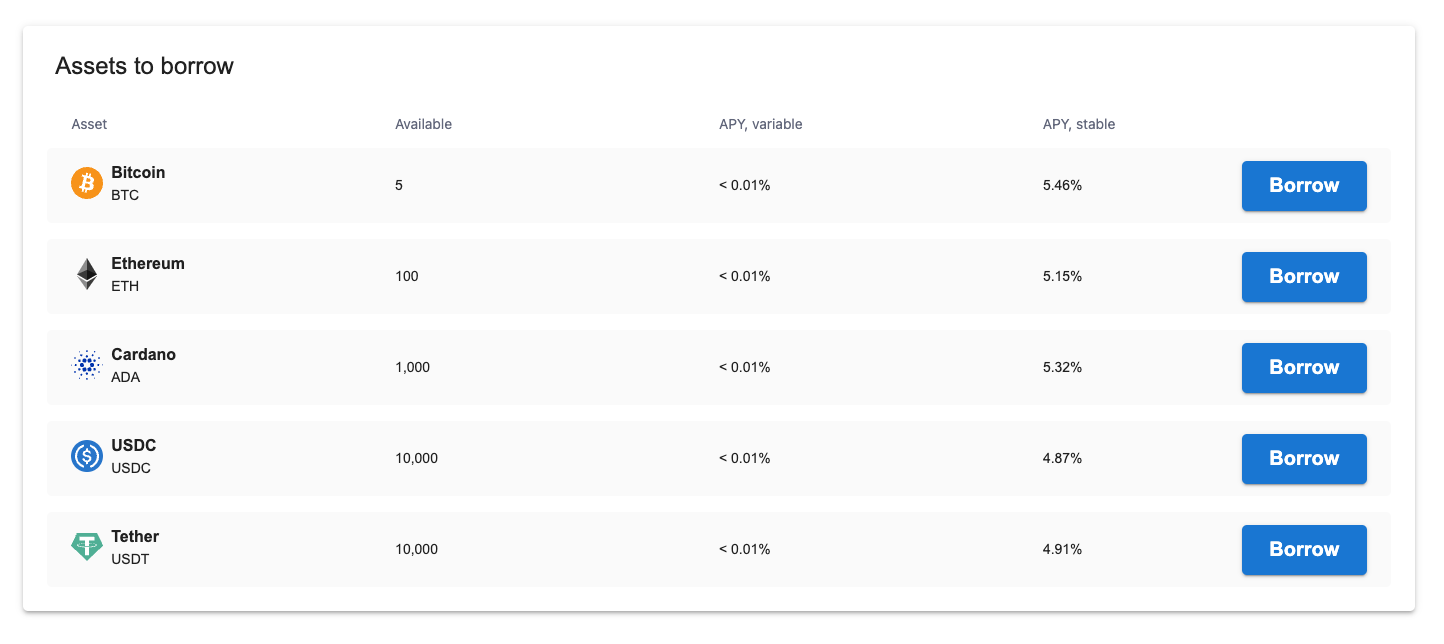
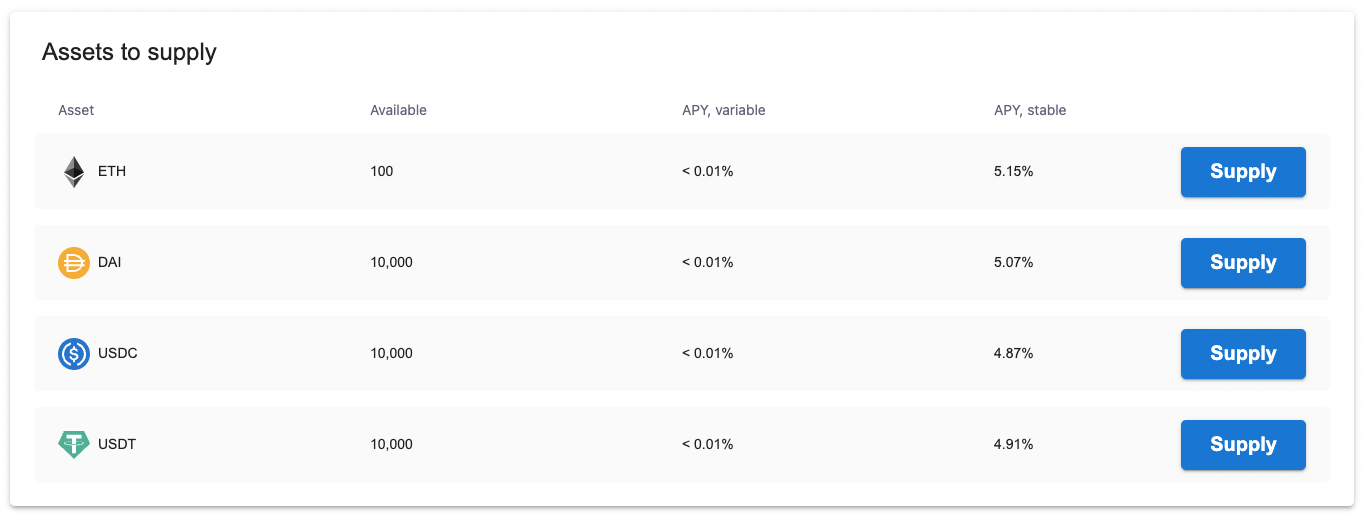
changed to supply

diff --git a/components/Assets/CryptoAssets.tsx b/components/Assets/CryptoAssets.tsx
@@ -1,11 +1,11 @@
 import { Box, Typography, Grid, Button } from '@mui/material';
 import Image from 'next/image';
-import ADA from '../../images/assets/ADA.svg';
-import BTC from '../../images/assets/BTC.svg';
 import ETH from '../../images/assets/ETH.svg';
+import DAI from '../../images/assets/DAI.svg';
 import USDC from '../../images/assets/USDC.svg';
 import USDT from '../../images/assets/USDT.svg';
 import CallMissedOutgoingIcon from '@mui/icons-material/CallMissedOutgoing';
+import { SupplyModal } from './SupplyModal';
 
 export interface CryptoAssetProps {
   name: string;
@@ -23,12 +23,11 @@ export const CryptoAsset: React.FC<CryptoAssetProps> = ({ name, symbol, availabl
       <Box sx={{ pl: 3, pr: 3 }}>
         {isSm ? (
           <>
-            <Grid container>
+            <Grid container alignItems="center" justifyContent="center">
               <Grid item xs={6}>
                 <Box sx={{ display: 'flex', flexDirection: 'row', alignItems: 'center' }}>
-                  {symbol === 'ADA' && <Image src={ADA} alt="ADA" />}
-                  {symbol === 'BTC' && <Image src={BTC} alt="BTC" />}
                   {symbol === 'ETH' && <Image src={ETH} alt="ETH" />}
+                  {symbol === 'DAI' && <Image src={DAI} alt="DAI" />}
                   {symbol === 'USDC' && <Image src={USDC} alt="USDC" />}
                   {symbol === 'USDT' && <Image src={USDT} alt="USDT" />}
                   {!isSm && (
@@ -54,18 +53,14 @@ export const CryptoAsset: React.FC<CryptoAssetProps> = ({ name, symbol, availabl
           </>
         ) : isMd ? (
           <>
-            <Grid container>
+            <Grid container alignItems="center" justifyContent="center">
               <Grid item xs={6}>
                 <Box sx={{ display: 'flex', flexDirection: 'row', alignItems: 'center' }}>
-                  {symbol === 'ADA' && <Image src={ADA} alt="ADA" />}
-                  {symbol === 'BTC' && <Image src={BTC} alt="BTC" />}
                   {symbol === 'ETH' && <Image src={ETH} alt="ETH" />}
+                  {symbol === 'DAI' && <Image src={DAI} alt="DAI" />}
                   {symbol === 'USDC' && <Image src={USDC} alt="USDC" />}
                   {symbol === 'USDT' && <Image src={USDT} alt="USDT" />}
                   <Box sx={{ ml: 1, display: 'flex', flexDirection: 'column' }}>
-                    <Typography variant="body1" fontWeight={700}>
-                      {name}
-                    </Typography>
                     <Typography variant="body2">{symbol}</Typography>
                   </Box>
                 </Box>
@@ -83,18 +78,14 @@ export const CryptoAsset: React.FC<CryptoAssetProps> = ({ name, symbol, availabl
           </>
         ) : (
           <>
-            <Grid container>
+            <Grid container alignItems="center" justifyContent="center">
               <Grid item xs={3}>
                 <Box sx={{ display: 'flex', flexDirection: 'row', alignItems: 'center' }}>
-                  {symbol === 'ADA' && <Image src={ADA} alt="ADA" />}
-                  {symbol === 'BTC' && <Image src={BTC} alt="BTC" />}
                   {symbol === 'ETH' && <Image src={ETH} alt="ETH" />}
+                  {symbol === 'DAI' && <Image src={DAI} alt="DAI" />}
                   {symbol === 'USDC' && <Image src={USDC} alt="USDC" />}
                   {symbol === 'USDT' && <Image src={USDT} alt="USDT" />}
                   <Box sx={{ ml: 1, display: 'flex', flexDirection: 'column' }}>
-                    <Typography variant="body1" fontWeight={700}>
-                      {name}
-                    </Typography>
                     <Typography variant="body2">{symbol}</Typography>
                   </Box>
                 </Box>
@@ -114,9 +105,7 @@ export const CryptoAsset: React.FC<CryptoAssetProps> = ({ name, symbol, availabl
               <Grid item xs={3}>
                 <Box sx={{ display: 'flex', alignItems: 'center', height: '100%', justifyContent: 'space-between' }}>
                   <Typography variant="body2">{apyS}</Typography>
-                  <Button type="button" fullWidth variant="contained" sx={{ height: '50px', width: '125px', borderRadius: '5px', ml: 1 }}>
-                    Borrow
-                  </Button>
+                  <SupplyModal symbol={symbol} />
                 </Box>
               </Grid>
             </Grid>

diff --git a/components/Assets/SupplyModal.tsx b/components/Assets/SupplyModal.tsx
@@ -1,0 +1,75 @@
+import * as React from 'react';
+import Box from '@mui/material/Box';
+import Button from '@mui/material/Button';
+import Typography from '@mui/material/Typography';
+import Modal from '@mui/material/Modal';
+import { TextField } from '@mui/material';
+import Image from 'next/image';
+import ETH from '../../images/assets/ETH.svg';
+import DAI from '../../images/assets/DAI.svg';
+import USDC from '../../images/assets/USDC.svg';
+import USDT from '../../images/assets/USDT.svg';
+
+const style = {
+  position: 'absolute' as 'absolute',
+  top: '50%',
+  left: '50%',
+  transform: 'translate(-50%, -50%)',
+  width: 400,
+  bgcolor: 'background.paper',
+  border: '1px solid #000',
+  borderRadius: '5px',
+  boxShadow: 24,
+  p: 4,
+};
+
+export interface SupplyModalProps {
+  symbol: string;
+}
+
+export const SupplyModal: React.FC<SupplyModalProps> = ({ symbol }: SupplyModalProps) => {
+  const [open, setOpen] = React.useState(false);
+  const handleOpen = () => setOpen(true);
+  const handleClose = () => setOpen(false);
+
+  return (
+    <div>
+      <Button type="button" fullWidth variant="contained" sx={{ height: '50px', width: '125px', borderRadius: '5px', ml: 1 }} onClick={handleOpen}>
+        Supply
+      </Button>
+      <Modal open={open} onClose={handleClose} aria-labelledby="modal-modal-title" aria-describedby="modal-modal-description">
+        <Box sx={style}>
+          <Typography id="modal-modal-title" variant="h5" component="h2">
+            Supply {symbol}
+          </Typography>
+          <Typography id="modal-modal-description" variant="body1" sx={{ mt: 7 }}>
+            Enter an Amount
+          </Typography>
+          <TextField
+            id="outlined-basic"
+            fullWidth
+            label="Amount"
+            variant="outlined"
+            sx={{ mt: 2 }}
+            InputProps={{
+              endAdornment: (
+                <Box sx={{ display: 'flex', flexDirection: 'row', alignItems: 'center' }}>
+                  {symbol === 'ETH' && <Image src={ETH} alt="ETH" />}
+                  {symbol === 'DAI' && <Image src={DAI} alt="DAI" />}
+                  {symbol === 'USDC' && <Image src={USDC} alt="USDC" />}
+                  {symbol === 'USDT' && <Image src={USDT} alt="USDT" />}
+                  <Typography variant="body2" sx={{ ml: 1 }}>
+                    {symbol}
+                  </Typography>
+                </Box>
+              ),
+            }}
+          />
+          <Button type="button" fullWidth variant="contained" sx={{ height: '50px', borderRadius: '5px', mt: 10 }}>
+            Supply {symbol}
+          </Button>
+        </Box>
+      </Modal>
+    </div>
+  );
+};

diff --git a/components/Assets/Assets.tsx b/components/Assets/Assets.tsx
@@ -6,13 +6,6 @@ const assetMobileHeaders = ['Asset', 'Available'];
 
 const assets = [
   {
-    name: 'Bitcoin',
-    symbol: 'BTC',
-    available: '5',
-    apyV: '< 0.01%',
-    apyS: '5.46%',
-  },
-  {
     name: 'Ethereum',
     symbol: 'ETH',
     available: '100',
@@ -20,11 +13,11 @@ const assets = [
     apyS: '5.15%',
   },
   {
-    name: 'Cardano',
-    symbol: 'ADA',
-    available: '1,000',
+    name: 'DAI',
+    symbol: 'DAI',
+    available: '10,000',
     apyV: '< 0.01%',
-    apyS: '5.32%',
+    apyS: '5.07%',
   },
   {
     name: 'USDC',
@@ -53,13 +46,13 @@ export const Assets: React.FC<AssetProps> = ({ isSm, isMd }) => {
       {isSm ? (
         <>
           <Box sx={{ display: 'flex', flexDirection: 'column', justifyContent: 'space-between', pt: 3, pb: 2, pl: 4, pr: 4, alignItems: 'center' }}>
-            <Typography variant="h5">Assets to borrow</Typography>
+            <Typography variant="h5">Assets to supply</Typography>
           </Box>
         </>
       ) : (
         <>
           <Box sx={{ display: 'flex', flexDirection: 'row', justifyContent: 'space-between', pt: 3, pb: 2, pl: 4, pr: 4, alignItems: 'center' }}>
-            <Typography variant="h5">Assets to borrow</Typography>
+            <Typography variant="h5">Assets to supply</Typography>
           </Box>
         </>
       )}

diff --git a/components/Assets/AssetsContainer.tsx b/components/Assets/AssetsContainer.tsx
@@ -28,6 +28,11 @@ const theme = createTheme({
   // },
   typography: {
     fontFamily: ['Arial'].join(','),
+    body2: {
+      '@media (max-width:475px)': {
+        fontSize: '12px',
+      },
+    },
     body3: {
       color: '#62677B',
       fontSize: '14px',

diff --git a/README.md b/README.md
@@ -1,6 +1,6 @@
 ## Getting Started
 
-This is a basic component for crypto assets that you can borrow. Currently it is setup for mock data, but the idea is that it will read different liquidity pools and you can borrow based on your current loan to value.
+This is a basic component for crypto assets that you can supply to a lending protocol. Currently it is setup for mock data, but the idea is that it will read the assets from your wallet and you can supply them as collateral to the lending protocol.
 
 ## Run dev environment
 
